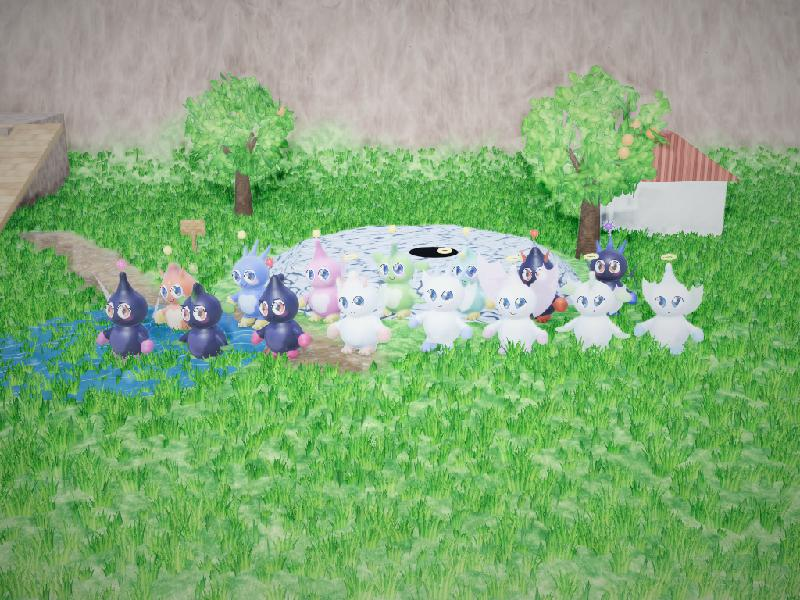
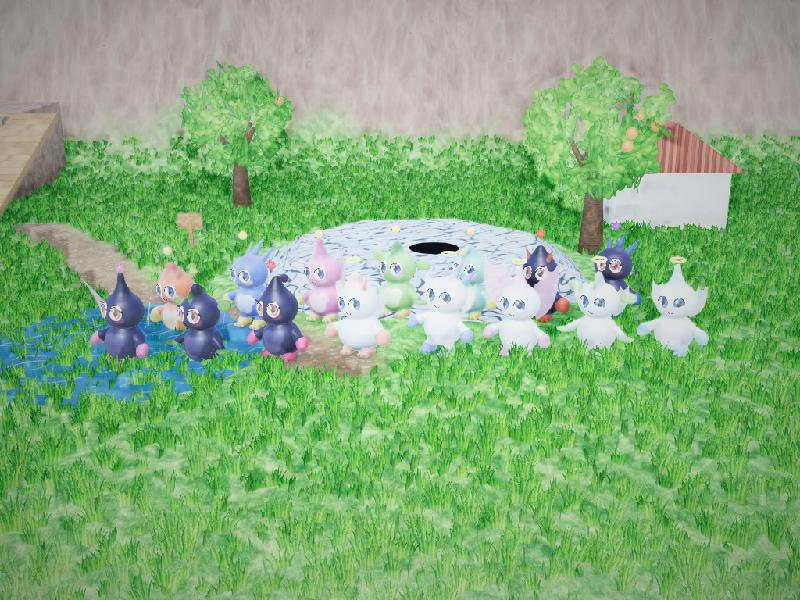
Strengthen the second-evolution blend and the Sun tells
The 0.4 hue blend was too subtle on the Normal-based pairs and the Sun accents too pale: the blend is now 0.55 with the half-strength tells in the second type's own colour, and the Sun accents lift only 10% toward white.

diff --git a/src/samples/nubbin-variants-second.ts b/src/samples/nubbin-variants-second.ts
@@ -5,8 +5,9 @@ import { BAND_LABEL, TYPE_LABEL, bandColors, firstSpec, type Band } from './nubb
 /**
  * The 60 second evolutions of the Nubbin: each of the 15 first evolutions with a touch of one
  * of the four other types. The helper applies the second type's silhouette at half strength,
- * and the colour is the first type's hue blended 40% toward the second's, put through the same
- * band recipe as the first evolutions (Neutral wears it, Sun lightens it, Moon deepens it).
+ * and the colour is the first type's hue blended 55% toward the second's, put through the same
+ * band recipe as the first evolutions (Neutral wears it, Sun lightens it, Moon deepens it); the
+ * half-strength tells take the second type's own colour, so the pair reads at a glance.
  */
 
 const BANDS: Band[] = ['sun', 'moon', 'neutral'];
@@ -16,14 +17,22 @@ function build(band: Band, type: NubbinType, second: NubbinType): NubbinVariant 
   const a = TYPE_COLORS[type];
   const b = TYPE_COLORS[second];
   const hue = {
-    body: mixHex(a.body, b.body, 0.4),
-    shade: mixHex(a.shade, b.shade, 0.4),
-    belly: mixHex(a.belly, b.belly, 0.4),
+    body: mixHex(a.body, b.body, 0.55),
+    shade: mixHex(a.shade, b.shade, 0.55),
+    belly: mixHex(a.belly, b.belly, 0.55),
   };
   const name = `Nubbin (${BAND_LABEL[band]} ${TYPE_LABEL[type]}\u2013${TYPE_LABEL[second]})`;
+  const tell = mixHex(b.body, a.body, 0.3);
+  const accent =
+    band === 'sun'
+      ? mixHex(tell, '#ffffff', 0.1)
+      : band === 'moon'
+        ? mixHex(tell, '#000000', 0.25)
+        : tell;
   const spec = variant(firstSpec(band, type), name, {
     second,
     ...bandColors(band, hue),
+    accent,
     notes: `Second evolution: ${BAND_LABEL[band]} ${TYPE_LABEL[type]} with a ${TYPE_LABEL[second]} touch, derived from first-${band}-${type}.`,
   });
   return { id: `second-${band}-${type}-${second}`, family: 'second', spec };

diff --git a/src/samples/nubbin-variants-first.ts b/src/samples/nubbin-variants-first.ts
@@ -56,8 +56,9 @@ export function bandColors(band: Band, hue: Hue): Pick<VariantOverrides, 'colors
       return { colors: { body, crownShade: shade, belly } };
     case 'sun':
       return {
-        accent: mixHex(body, WHITE, 0.35),
-        colors: { tip: mixHex(body, WHITE, 0.45), pad: body, crownShade: mixHex(body, WHITE, 0.7) },
+        // The references keep the Sun tells fairly saturated: only a light lift toward white.
+        accent: mixHex(body, WHITE, 0.1),
+        colors: { tip: mixHex(body, WHITE, 0.25), pad: body, crownShade: mixHex(body, WHITE, 0.5) },
       };
     case 'moon':
       return {

diff --git a/PROGRESS.md b/PROGRESS.md
@@ -79,9 +79,9 @@ and horns; cyan-green crest) and six modelled looks (fox, echidna, rose, dream, 
 replace the four palette placeholders, so only the seven jewels remain placeholders (flat
 gloss). Tests: the tells, `mixHex`, and a geometry sanity sweep over all 116 variants.
 Screenshots re-shot: `variants-first.jpg`, `variants-second.jpg`, `variants-special.jpg`.
-Known: the hue blend at 0.4 is subtle on the Normal-based pairs; the Sun tells are pale by
-design and read best up close. Lint, 216 tests and `vite build` pass on this pass's files;
-`tsc` currently reports errors only in another session's unfinished `main.ts` and `render3d/`.
+Same day, at Maor's "fix it": the blend raised to 0.55 with the half-strength tells in the
+second type's own colour, and the Sun accents lifted only 10% toward white, so both read on
+the sheets; `variants-first.jpg` and `variants-second.jpg` re-shot. Lint, 216 tests and build pass.
 
 ## The Nubbin variants as specs (2026-10-15)
 
